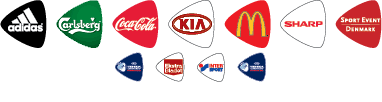
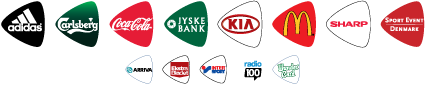
Updated match schedule with additional sponors

diff --git a/sites/all/themes/u21dk2011/styles/schedule.css b/sites/all/themes/u21dk2011/styles/schedule.css
@@ -194,8 +194,8 @@
 .sponsors {
   background: transparent url(../images/back-schedule-sponsors.png) left top no-repeat;
   display: block;
-  width: 382px;
-  height: 102px;
+  width: 426px;
+  height: 106px;
   margin: 25px auto 10px;
   text-indent: -999em;
 }
